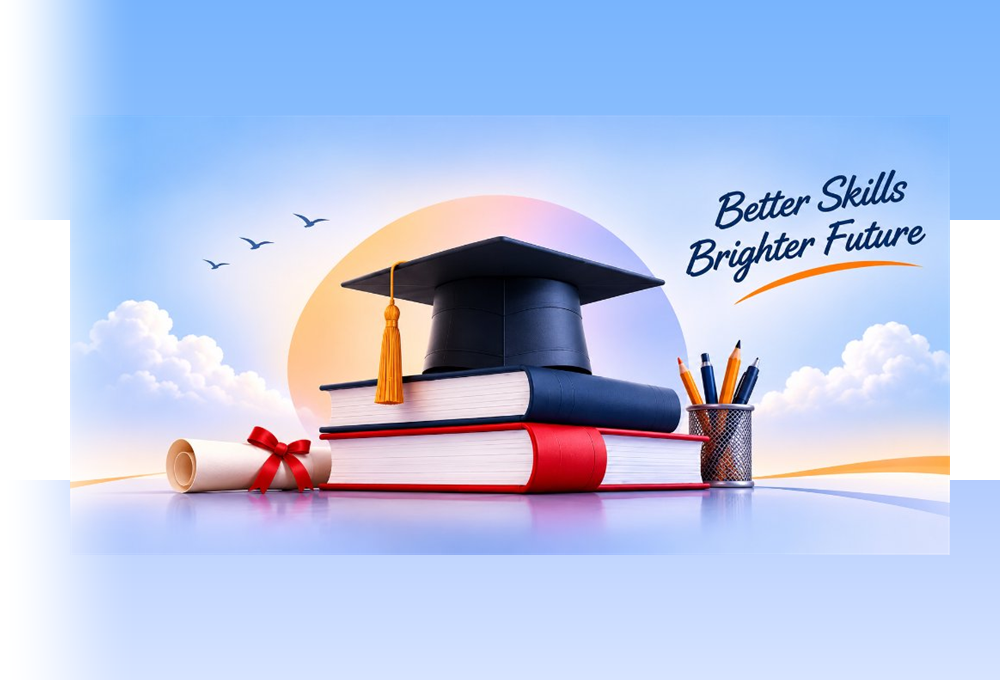
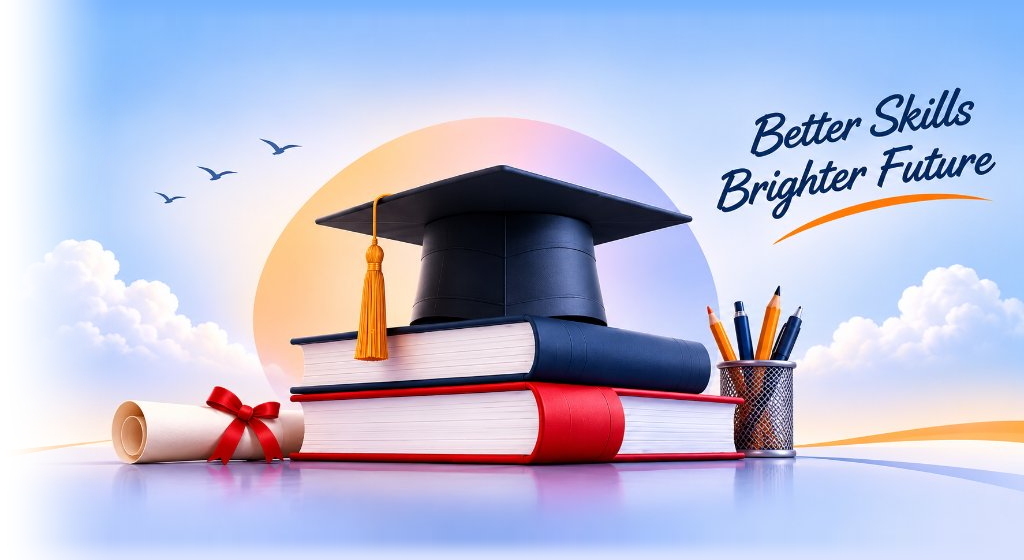
fix(hero): eliminate white gaps and seams with seamless full-bleed artwork and natural alpha dissolve

diff --git a/src/pages/public/HomePage.tsx b/src/pages/public/HomePage.tsx
@@ -110,19 +110,17 @@ export const HomePage: React.FC = () => {
             />
           </div>
 
-          {/* Desktop Right-Side Full-Bleed 3D Academic Artwork (Pinned Right — Full Calligraphy & Pencils Visible) */}
-          <div className="hidden lg:block absolute right-0 top-0 bottom-0 w-[56%] xl:w-[54%] h-full pointer-events-none select-none z-0 overflow-hidden">
+          {/* Desktop Right-Side Full-Bleed 3D Academic Artwork (Seamless Edge-to-Edge with Full Composition) */}
+          <div className="hidden lg:block absolute right-0 top-0 bottom-0 w-[72%] xl:w-[65%] 2xl:w-[60%] max-w-[960px] h-full pointer-events-none select-none z-0 overflow-hidden">
             <img
               src="/images/hero-books-gradcap-blended.png"
               alt="Stack of Academic Books with Graduation Cap, Diploma, Pencils and Better Skills Calligraphy"
               className="w-full h-full object-cover object-right"
             />
-            {/* Seamless Leftward Fade Overlay - Soft dissolve into Card White Background */}
-            <div className="absolute inset-y-0 left-0 w-20 xl:w-28 bg-gradient-to-r from-white via-white/50 to-transparent pointer-events-none" />
           </div>
 
           {/* Left Column: Heading, Outlined Pill & Two Side-by-Side CTAs */}
-          <div className="relative z-10 w-full lg:w-[48%] xl:w-[46%] max-w-[560px] px-5 sm:px-8 lg:px-12 py-7 sm:py-9 lg:py-10 space-y-4 sm:space-y-5 text-left">
+          <div className="relative z-10 w-full lg:w-[46%] xl:w-[44%] max-w-[540px] px-5 sm:px-8 lg:px-12 py-7 sm:py-9 lg:py-10 space-y-4 sm:space-y-5 text-left">
             {/* Premium Category Pill Badge */}
             <div className="inline-flex items-center gap-2 bg-[#FFF9F3] border border-[#FF6500]/30 text-[#0B1F46] px-3.5 py-1 rounded-full text-xs font-bold shadow-2xs">
               <Sparkles className="w-3.5 h-3.5 text-[#FF6500] shrink-0" />
